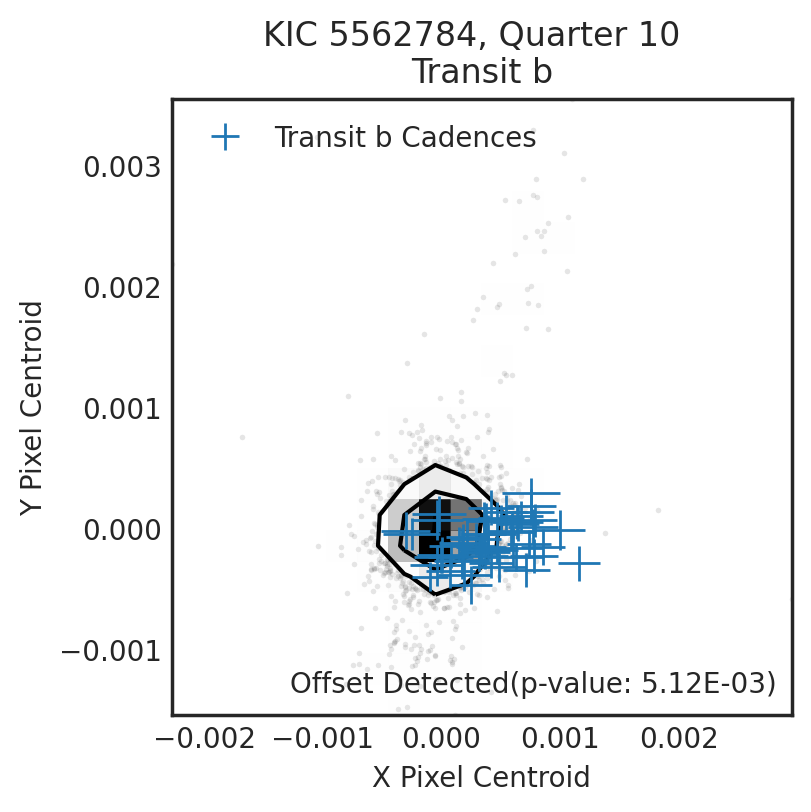
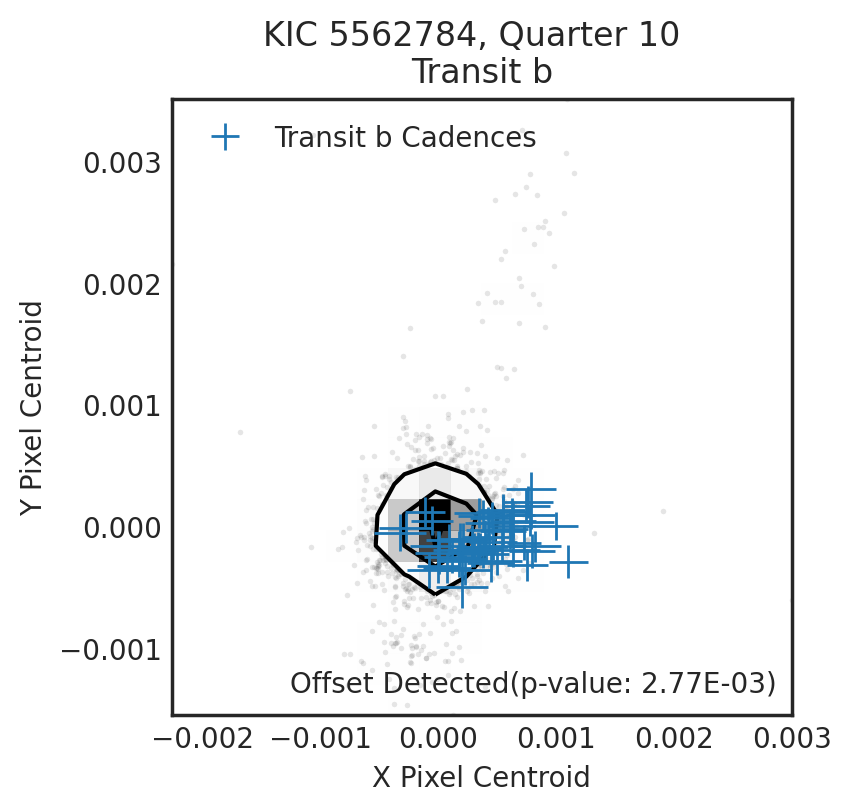
:zap: added ability to find one sigma offset

diff --git a/src/vetting/centroiding.py b/src/vetting/centroiding.py
@@ -19,7 +19,7 @@ def _label(tpf):
 
 
 def centroid_test(
-    tpfs, periods, t0s, durs, kernel=21, aperture_mask="pipeline", plot=True
+    tpfs, periods, t0s, durs, kernel=21, aperture_mask="pipeline", plot=True, nsamp=50
 ):
     """
     Runs a simple centroiding test on TPFs for input period, t0 and durations of transiting planet candidates.
@@ -53,6 +53,8 @@ def centroid_test(
             `pipeline` will use the pipeline mask, and `threshold` will use all contiguous pixels above a 3 sigma threshold.
         plot : bool
             Whether or not to plot results.
+        nsamp : int
+            Number of samples to make when testing (default 50)
 
     Returns
     -------
@@ -74,8 +76,10 @@ def centroid_test(
 
     nplanets = len(periods)
     r = {}
-    r["figs"] = []
-    r["pvalues"] = []
+    for key in ["figs", "pvalues", "1sigma_distance", "3sigma_distance"]:
+        r[key] = []
+
+    offsets = np.logspace(-6, np.log10(3), 100)[::-1]
     for tpf in tpfs:
         crwd = tpf.hdu[1].header["CROWDSAP"]
         if crwd is not None:
@@ -101,14 +105,15 @@ def centroid_test(
         Y, X = np.mgrid[: tpf.shape[1], : tpf.shape[2]]
         X = (X[aper][:, None] * np.ones(tpf.shape[0])).T
         Y = (Y[aper][:, None] * np.ones(tpf.shape[0])).T
-        X = X[:, :, None] * np.ones(40)
-        Y = Y[:, :, None] * np.ones(40)
+        X = X[:, :, None] * np.ones(nsamp)
+        Y = Y[:, :, None] * np.ones(nsamp)
         fe = np.asarray(
             [
                 np.random.normal(tpf.flux[:, aper], tpf.flux_err[:, aper])
-                for idx in range(40)
+                for idx in range(nsamp)
             ]
         ).transpose([1, 2, 0])
+
         xcent = np.average(X, weights=fe, axis=1)
         ycent = np.average(Y, weights=fe, axis=1)
 
@@ -159,8 +164,12 @@ def centroid_test(
         xtr = np.hstack(xtr)
         ytr = np.hstack(ytr)
 
-        xsamps = np.random.normal(xcent[:, 0] - xtr, xcent[:, 1], size=(50, len(xcent)))
-        ysamps = np.random.normal(ycent[:, 0] - ytr, ycent[:, 1], size=(50, len(ycent)))
+        xsamps = np.random.normal(
+            xcent[:, 0] - xtr, xcent[:, 1], size=(nsamp, len(xcent))
+        )
+        ysamps = np.random.normal(
+            ycent[:, 0] - ytr, ycent[:, 1], size=(nsamp, len(ycent))
+        )
 
         if plot:
             with plt.style.context("seaborn-white"):
@@ -175,7 +184,7 @@ def centroid_test(
                 if not hasattr(axs, "__iter__"):
                     axs = [axs]
         letter = "bcdefghijklmnopqrstu"
-        pvalues = []
+        pvalues, sigma1, sigma3 = [], [], []
         for idx in range(nplanets):
             # NO Transits
             k1 = (tmasks).all(axis=0)
@@ -203,14 +212,57 @@ def centroid_test(
                         xlabel="X Pixel Centroid", title=f"Transit {letter[idx]}"
                     )
                     axs[idx].legend(loc="upper left")
+
             ps = []
+            ps1 = []
             for x1, y1 in zip(xsamps, ysamps):
                 px = ttest_ind(x1[k1], x1[k2], equal_var=False)
                 py = ttest_ind(y1[k1], y1[k2], equal_var=False)
                 ps.append(np.mean([px.pvalue, py.pvalue]))
 
-            pvalue = np.mean(ps)
+                # Choose a random sample from the main distribution
+                k3 = np.random.choice(np.where(k1)[0], k2.sum())
+                x2 = np.random.normal(xcent[k3, 0] - xtr[k3], xcent[k3, 1])
+                y2 = np.random.normal(ycent[k3, 0] - ytr[k3], ycent[k3, 1])
+
+                # Not the sample
+                k4 = np.where(k1)[0][~np.in1d(np.where(k1)[0], k3)]
+                px = np.asarray(
+                    [ttest_ind(x1[k4], x2 + o, equal_var=False).pvalue for o in offsets]
+                )
+                py = np.asarray(
+                    [ttest_ind(y1[k4], y2 + o, equal_var=False).pvalue for o in offsets]
+                )
+                ps1.append(np.mean([px, py], axis=0))
+
+            locs = np.asarray(
+                [np.where(p < 0.317)[0][-1] for p in ps1 if (p < 0.317).any()]
+            )
+            if len(locs) == 0:
+                sigma1.append(np.nan)
+            else:
+                try:
+                    sigma1.append(np.percentile(offsets[locs], 90))
+                except:
+                    sigma1.append(np.nan)
+
+            locs = np.asarray(
+                [np.where(p < 0.003)[0][-1] for p in ps1 if (p < 0.003).any()]
+            )
+            if len(locs) == 0:
+                sigma3.append(np.nan)
+            else:
+                try:
+                    sigma3.append(np.percentile(offsets[locs], 90))
+                except:
+                    sigma3.append(np.nan)
+
+            if k2.sum() == 0:
+                pvalue = 1
+            else:
+                pvalue = np.mean(ps)
             pvalues.append(pvalue)
+
             if plot:
                 with plt.style.context("seaborn-white"):
                     if pvalue > 0.05:
@@ -238,4 +290,9 @@ def centroid_test(
                     r["figs"].append(fig)
 
         r["pvalues"].append(tuple(pvalues))
+        r["1sigma_distance"].append(tuple(sigma1))
+        r["3sigma_distance"].append(tuple(sigma3))
+
+    #        import pdb
+    #        pdb.set_trace()
     return r
